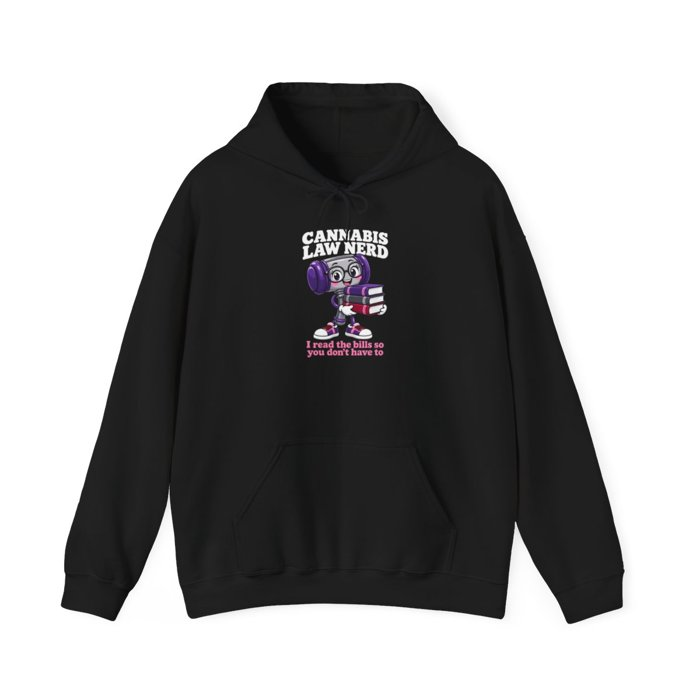
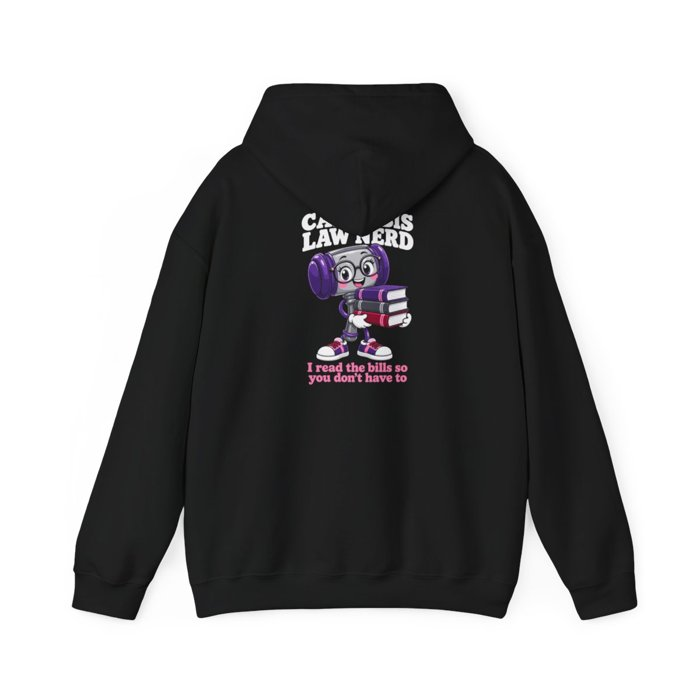
Merch: Veterans Dog Tags line + hoodies show back print
Adds the Veterans Dog Tags tee, black mug, 20oz tumbler and hoodie.
All 11 hoodies now have a big back print and a small J&H chest logo,
so their photos show the back view; hoodie price is now $47.99.

diff --git a/merch-preview-jh7q.html b/merch-preview-jh7q.html
@@ -40,6 +40,10 @@
   <div class="notice">🔒 <strong>Private preview for James &amp; Hope.</strong> This page isn't linked anywhere. Checkout stays off until the store is verified.</div>
   <h1>J&amp;H Merch (preview)</h1>
   <div class="merch-grid">
+    <div class="item"><img src="merch/veterans-dog-tags-tee.jpg" alt="Veterans Dog Tags Tee" loading="lazy"><div class="info"><h3>Veterans Dog Tags Tee</h3><span class="price">$25.99</span><br><a class="btn" href="https://jh-cannabis-news.printify.me/product/33491616">View in store</a></div></div>
+    <div class="item"><img src="merch/veterans-dog-tags-hoodie.jpg" alt="Veterans Dog Tags Hoodie" loading="lazy"><div class="info"><h3>Veterans Dog Tags Hoodie</h3><span class="price">$47.99</span><br><a class="btn" href="https://jh-cannabis-news.printify.me/product/33491781">View in store</a></div></div>
+    <div class="item"><img src="merch/veterans-dog-tags-black-mug.jpg" alt="Veterans Dog Tags Black Mug" loading="lazy"><div class="info"><h3>Veterans Dog Tags Black Mug</h3><span class="price">$16.99</span><br><a class="btn" href="https://jh-cannabis-news.printify.me/product/33491648">View in store</a></div></div>
+    <div class="item"><img src="merch/veterans-dog-tags-20oz-tumbler.jpg" alt="Veterans Dog Tags 20oz Tumbler" loading="lazy"><div class="info"><h3>Veterans Dog Tags 20oz Tumbler</h3><span class="price">$29.99</span><br><a class="btn" href="https://jh-cannabis-news.printify.me/product/33491685">View in store</a></div></div>
     <div class="item"><img src="merch/flower-power-peace-sign-tee.jpg" alt="Flower Power Peace Sign Tee" loading="lazy"><div class="info"><h3>Flower Power Peace Sign Tee</h3><span class="price">$25.99</span><br><a class="btn" href="https://jh-cannabis-news.printify.me/product/33456195">View in store</a></div></div>
     <div class="item"><img src="merch/texas-grown-texas-regulated-butterfly-tee.jpg" alt="Texas Grown Texas Regulated Butterfly Tee" loading="lazy"><div class="info"><h3>Texas Grown Texas Regulated Butterfly Tee</h3><span class="price">$25.99</span><br><a class="btn" href="https://jh-cannabis-news.printify.me/product/33456350">View in store</a></div></div>
     <div class="item"><img src="merch/good-vibes-clear-laws-moon-tee.jpg" alt="Good Vibes Clear Laws Moon Tee" loading="lazy"><div class="info"><h3>Good Vibes Clear Laws Moon Tee</h3><span class="price">$25.99</span><br><a class="btn" href="https://jh-cannabis-news.printify.me/product/33456454">View in store</a></div></div>
@@ -60,10 +64,10 @@
     <div class="item"><img src="merch/we-the-people-tee.jpg" alt="We the People Tee" loading="lazy"><div class="info"><h3>We the People Tee</h3><span class="price">$25.99</span><br><a class="btn" href="https://jh-cannabis-news.printify.me/product/33440403">View in store</a></div></div>
     <div class="item"><img src="merch/ask-me-about-the-farm-bill-tee.jpg" alt="Ask Me About the Farm Bill Tee" loading="lazy"><div class="info"><h3>Ask Me About the Farm Bill Tee</h3><span class="price">$25.99</span><br><a class="btn" href="https://jh-cannabis-news.printify.me/product/33440452">View in store</a></div></div>
     <div class="item"><img src="merch/gone-fishin-for-better-laws-tee.jpg" alt="Gone Fishin for Better Laws Tee" loading="lazy"><div class="info"><h3>Gone Fishin for Better Laws Tee</h3><span class="price">$25.99</span><br><a class="btn" href="https://jh-cannabis-news.printify.me/product/33440521">View in store</a></div></div>
-    <div class="item"><img src="merch/hemp-for-victory-hoodie.jpg" alt="Hemp for Victory Hoodie" loading="lazy"><div class="info"><h3>Hemp for Victory Hoodie</h3><span class="price">$44.99</span><br><a class="btn" href="https://jh-cannabis-news.printify.me/product/33440585">View in store</a></div></div>
-    <div class="item"><img src="merch/texas-hemp-pickup-hoodie.jpg" alt="Texas Hemp Pickup Hoodie" loading="lazy"><div class="info"><h3>Texas Hemp Pickup Hoodie</h3><span class="price">$44.99</span><br><a class="btn" href="https://jh-cannabis-news.printify.me/product/33440729">View in store</a></div></div>
-    <div class="item"><img src="merch/veterans-for-medical-cannabis-hoodie.jpg" alt="Veterans for Medical Cannabis Hoodie" loading="lazy"><div class="info"><h3>Veterans for Medical Cannabis Hoodie</h3><span class="price">$44.99</span><br><a class="btn" href="https://jh-cannabis-news.printify.me/product/33440802">View in store</a></div></div>
-    <div class="item"><img src="merch/texas-grown-texas-regulated-hoodie.jpg" alt="Texas Grown Texas Regulated Hoodie" loading="lazy"><div class="info"><h3>Texas Grown Texas Regulated Hoodie</h3><span class="price">$44.99</span><br><a class="btn" href="https://jh-cannabis-news.printify.me/product/33440895">View in store</a></div></div>
+    <div class="item"><img src="merch/hemp-for-victory-hoodie.jpg" alt="Hemp for Victory Hoodie" loading="lazy"><div class="info"><h3>Hemp for Victory Hoodie</h3><span class="price">$47.99</span><br><a class="btn" href="https://jh-cannabis-news.printify.me/product/33440585">View in store</a></div></div>
+    <div class="item"><img src="merch/texas-hemp-pickup-hoodie.jpg" alt="Texas Hemp Pickup Hoodie" loading="lazy"><div class="info"><h3>Texas Hemp Pickup Hoodie</h3><span class="price">$47.99</span><br><a class="btn" href="https://jh-cannabis-news.printify.me/product/33440729">View in store</a></div></div>
+    <div class="item"><img src="merch/veterans-for-medical-cannabis-hoodie.jpg" alt="Veterans for Medical Cannabis Hoodie" loading="lazy"><div class="info"><h3>Veterans for Medical Cannabis Hoodie</h3><span class="price">$47.99</span><br><a class="btn" href="https://jh-cannabis-news.printify.me/product/33440802">View in store</a></div></div>
+    <div class="item"><img src="merch/texas-grown-texas-regulated-hoodie.jpg" alt="Texas Grown Texas Regulated Hoodie" loading="lazy"><div class="info"><h3>Texas Grown Texas Regulated Hoodie</h3><span class="price">$47.99</span><br><a class="btn" href="https://jh-cannabis-news.printify.me/product/33440895">View in store</a></div></div>
     <div class="item"><img src="merch/texas-hemp-pickup-20oz-tumbler.jpg" alt="Texas Hemp Pickup 20oz Tumbler" loading="lazy"><div class="info"><h3>Texas Hemp Pickup 20oz Tumbler</h3><span class="price">$29.99</span><br><a class="btn" href="https://jh-cannabis-news.printify.me/product/33440959">View in store</a></div></div>
     <div class="item"><img src="merch/old-enough-to-remember-20oz-tumbler.jpg" alt="Old Enough to Remember 20oz Tumbler" loading="lazy"><div class="info"><h3>Old Enough to Remember 20oz Tumbler</h3><span class="price">$29.99</span><br><a class="btn" href="https://jh-cannabis-news.printify.me/product/33440998">View in store</a></div></div>
     <div class="item"><img src="merch/veterans-for-medical-cannabis-20oz-tumbler.jpg" alt="Veterans for Medical Cannabis 20oz Tumbler" loading="lazy"><div class="info"><h3>Veterans for Medical Cannabis 20oz Tumbler</h3><span class="price">$29.99</span><br><a class="btn" href="https://jh-cannabis-news.printify.me/product/33441067">View in store</a></div></div>
@@ -87,10 +91,10 @@
     <div class="item"><img src="merch/nerd-tee.jpg" alt="Cannabis Law Nerd Tee" loading="lazy"><div class="info"><h3>Cannabis Law Nerd Tee</h3><span class="price">$25.99</span><br><a class="btn" href="https://jh-cannabis-news.printify.me/product/33259072">View in store</a></div></div>
     <div class="item"><img src="merch/txfight-tee.jpg" alt="Texas Hemp Fight Tee" loading="lazy"><div class="info"><h3>Texas Hemp Fight Tee</h3><span class="price">$25.99</span><br><a class="btn" href="https://jh-cannabis-news.printify.me/product/33259113">View in store</a></div></div>
     <div class="item"><img src="merch/vote-tee.jpg" alt="Vote Like Cannabis Matters Tee" loading="lazy"><div class="info"><h3>Vote Like Cannabis Matters Tee</h3><span class="price">$25.99</span><br><a class="btn" href="https://jh-cannabis-news.printify.me/product/33259143">View in store</a></div></div>
-    <div class="item"><img src="merch/ftp-hoodie.jpg" alt="Free the Plant Hoodie" loading="lazy"><div class="info"><h3>Free the Plant Hoodie</h3><span class="price">$44.99</span><br><a class="btn" href="https://jh-cannabis-news.printify.me/product/33259222">View in store</a></div></div>
-    <div class="item"><img src="merch/savehemp-hoodie.jpg" alt="Save Hemp Retro Hoodie" loading="lazy"><div class="info"><h3>Save Hemp Retro Hoodie</h3><span class="price">$44.99</span><br><a class="btn" href="https://jh-cannabis-news.printify.me/product/33259262">View in store</a></div></div>
-    <div class="item"><img src="merch/nerd-hoodie.jpg" alt="Cannabis Law Nerd Hoodie" loading="lazy"><div class="info"><h3>Cannabis Law Nerd Hoodie</h3><span class="price">$44.99</span><br><a class="btn" href="https://jh-cannabis-news.printify.me/product/33259297">View in store</a></div></div>
-    <div class="item"><img src="merch/txfight-hoodie.jpg" alt="Texas Hemp Fight Hoodie" loading="lazy"><div class="info"><h3>Texas Hemp Fight Hoodie</h3><span class="price">$44.99</span><br><a class="btn" href="https://jh-cannabis-news.printify.me/product/33259347">View in store</a></div></div>
+    <div class="item"><img src="merch/ftp-hoodie.jpg" alt="Free the Plant Hoodie" loading="lazy"><div class="info"><h3>Free the Plant Hoodie</h3><span class="price">$47.99</span><br><a class="btn" href="https://jh-cannabis-news.printify.me/product/33259222">View in store</a></div></div>
+    <div class="item"><img src="merch/savehemp-hoodie.jpg" alt="Save Hemp Retro Hoodie" loading="lazy"><div class="info"><h3>Save Hemp Retro Hoodie</h3><span class="price">$47.99</span><br><a class="btn" href="https://jh-cannabis-news.printify.me/product/33259262">View in store</a></div></div>
+    <div class="item"><img src="merch/nerd-hoodie.jpg" alt="Cannabis Law Nerd Hoodie" loading="lazy"><div class="info"><h3>Cannabis Law Nerd Hoodie</h3><span class="price">$47.99</span><br><a class="btn" href="https://jh-cannabis-news.printify.me/product/33259297">View in store</a></div></div>
+    <div class="item"><img src="merch/txfight-hoodie.jpg" alt="Texas Hemp Fight Hoodie" loading="lazy"><div class="info"><h3>Texas Hemp Fight Hoodie</h3><span class="price">$47.99</span><br><a class="btn" href="https://jh-cannabis-news.printify.me/product/33259347">View in store</a></div></div>
     <div class="item"><img src="merch/ftp-tumbler.jpg" alt="Free the Plant 20oz Tumbler" loading="lazy"><div class="info"><h3>Free the Plant 20oz Tumbler</h3><span class="price">$29.99</span><br><a class="btn" href="https://jh-cannabis-news.printify.me/product/33259456">View in store</a></div></div>
     <div class="item"><img src="merch/savehemp-tumbler.jpg" alt="Save Hemp Retro 20oz Tumbler" loading="lazy"><div class="info"><h3>Save Hemp Retro 20oz Tumbler</h3><span class="price">$29.99</span><br><a class="btn" href="https://jh-cannabis-news.printify.me/product/33259502">View in store</a></div></div>
     <div class="item"><img src="merch/21plus-tumbler.jpg" alt="21+ and Regulated 20oz Tumbler" loading="lazy"><div class="info"><h3>21+ and Regulated 20oz Tumbler</h3><span class="price">$29.99</span><br><a class="btn" href="https://jh-cannabis-news.printify.me/product/33259518">View in store</a></div></div>
@@ -99,8 +103,8 @@
     <div class="item"><img src="merch/dec11-tee.jpg" alt="Dec 11 Hemp Fight Tee" loading="lazy"><div class="info"><h3>Dec 11 Hemp Fight Tee</h3><span class="price">$25.99</span><br><a class="btn" href="https://jh-cannabis-news.printify.me/product/33235129">View in store</a></div></div>
     <div class="item"><img src="merch/texas-tee.jpg" alt="Texas Cannabis News Tee" loading="lazy"><div class="info"><h3>Texas Cannabis News Tee</h3><span class="price">$25.99</span><br><a class="btn" href="https://jh-cannabis-news.printify.me/product/33235127">View in store</a></div></div>
     <div class="item"><img src="merch/classic-tee.jpg" alt="Classic Logo Tee" loading="lazy"><div class="info"><h3>Classic Logo Tee</h3><span class="price">$25.99</span><br><a class="btn" href="https://jh-cannabis-news.printify.me/product/33235120">View in store</a></div></div>
-    <div class="item"><img src="merch/neon-hoodie.jpg" alt="Neon Logo Hoodie" loading="lazy"><div class="info"><h3>Neon Logo Hoodie</h3><span class="price">$44.99</span><br><a class="btn" href="https://jh-cannabis-news.printify.me/product/33235119">View in store</a></div></div>
-    <div class="item"><img src="merch/classic-hoodie.jpg" alt="Classic Logo Hoodie" loading="lazy"><div class="info"><h3>Classic Logo Hoodie</h3><span class="price">$44.99</span><br><a class="btn" href="https://jh-cannabis-news.printify.me/product/33235116">View in store</a></div></div>
+    <div class="item"><img src="merch/neon-hoodie.jpg" alt="Neon Logo Hoodie" loading="lazy"><div class="info"><h3>Neon Logo Hoodie</h3><span class="price">$47.99</span><br><a class="btn" href="https://jh-cannabis-news.printify.me/product/33235119">View in store</a></div></div>
+    <div class="item"><img src="merch/classic-hoodie.jpg" alt="Classic Logo Hoodie" loading="lazy"><div class="info"><h3>Classic Logo Hoodie</h3><span class="price">$47.99</span><br><a class="btn" href="https://jh-cannabis-news.printify.me/product/33235116">View in store</a></div></div>
     <div class="item"><img src="merch/hat.jpg" alt="Classic Logo Hat" loading="lazy"><div class="info"><h3>Classic Logo Hat</h3><span class="price">$27.99</span><br><a class="btn" href="https://jh-cannabis-news.printify.me/product/33235117">View in store</a></div></div>
     <div class="item"><img src="merch/beanie.jpg" alt="Embroidered Logo Beanie" loading="lazy"><div class="info"><h3>Embroidered Logo Beanie</h3><span class="price">$27.99</span><br><a class="btn" href="https://jh-cannabis-news.printify.me/product/33236558">View in store</a></div></div>
     <div class="item"><img src="merch/neon-tumbler.jpg" alt="Neon Logo 20oz Tumbler" loading="lazy"><div class="info"><h3>Neon Logo 20oz Tumbler</h3><span class="price">$29.99</span><br><a class="btn" href="https://jh-cannabis-news.printify.me/product/33235122">View in store</a></div></div>

diff --git a/merch.html b/merch.html
@@ -44,6 +44,10 @@
   <a class="btn" href="https://www.youtube.com/@jhcannabisnews?sub_confirmation=1">▶ Subscribe</a>
   <a class="btn ghost" href="https://discord.gg/EXqpgyQyBq">💬 Join our Discord</a>
   <div class="merch-grid">
+    <div class="item"><img src="merch/veterans-dog-tags-tee.jpg" alt="Veterans Dog Tags Tee" loading="lazy"><div class="info"><h3>Veterans Dog Tags Tee</h3><span class="soon">Coming soon</span></div></div>
+    <div class="item"><img src="merch/veterans-dog-tags-hoodie.jpg" alt="Veterans Dog Tags Hoodie" loading="lazy"><div class="info"><h3>Veterans Dog Tags Hoodie</h3><span class="soon">Coming soon</span></div></div>
+    <div class="item"><img src="merch/veterans-dog-tags-black-mug.jpg" alt="Veterans Dog Tags Black Mug" loading="lazy"><div class="info"><h3>Veterans Dog Tags Black Mug</h3><span class="soon">Coming soon</span></div></div>
+    <div class="item"><img src="merch/veterans-dog-tags-20oz-tumbler.jpg" alt="Veterans Dog Tags 20oz Tumbler" loading="lazy"><div class="info"><h3>Veterans Dog Tags 20oz Tumbler</h3><span class="soon">Coming soon</span></div></div>
     <div class="item"><img src="merch/flower-power-peace-sign-tee.jpg" alt="Flower Power Peace Sign Tee" loading="lazy"><div class="info"><h3>Flower Power Peace Sign Tee</h3><span class="soon">Coming soon</span></div></div>
     <div class="item"><img src="merch/texas-grown-texas-regulated-butterfly-tee.jpg" alt="Texas Grown Texas Regulated Butterfly Tee" loading="lazy"><div class="info"><h3>Texas Grown Texas Regulated Butterfly Tee</h3><span class="soon">Coming soon</span></div></div>
     <div class="item"><img src="merch/good-vibes-clear-laws-moon-tee.jpg" alt="Good Vibes Clear Laws Moon Tee" loading="lazy"><div class="info"><h3>Good Vibes Clear Laws Moon Tee</h3><span class="soon">Coming soon</span></div></div>

diff --git a/tools/build_merch.py b/tools/build_merch.py
@@ -10,6 +10,11 @@ SITE = os.path.dirname(os.path.dirname(os.path.abspath(__file__)))
 STORE = "https://jh-cannabis-news.printify.me"
 MOCK = "https://images-api.printify.com/mockup/"
 P = [  # (slug, name, price, store product id, mockup path)
+    # Veterans Dog Tags (10-24): tee, black mug, 20oz tumbler, hoodie (big back print + J&H chest logo)
+    ("veterans-dog-tags-tee", "Veterans Dog Tags Tee", "$25.99", "33491616", "6adcdb7b0842128e3b04764a/18102/102044/veterans-dog-tags-tee.jpg?camera_label=front-2"),
+    ("veterans-dog-tags-hoodie", "Veterans Dog Tags Hoodie", "$47.99", "33491781", "6adcdb956e278da11903e470/32920/98425/veterans-dog-tags-hoodie.jpg?camera_label=back"),
+    ("veterans-dog-tags-black-mug", "Veterans Dog Tags Black Mug", "$16.99", "33491648", "6adcdbac5bb45b7c640f424e/65217/6405/veterans-dog-tags-black-mug.jpg?camera_label=front"),
+    ("veterans-dog-tags-20oz-tumbler", "Veterans Dog Tags 20oz Tumbler", "$29.99", "33491685", "6adcdb8d022966bc72071e9f/108286/104182/veterans-dog-tags-20oz-tumbler.jpg?camera_label=front"),
     # women's line (10-23): 3 bright pink/purple designs across tees, tumblers, cases, stickers
     ("flower-power-peace-sign-tee", "Flower Power Peace Sign Tee", "$25.99", "33456195", "6adb75eb04ff64518d0e294e/18102/102044/flower-power-peace-sign-tee.jpg?camera_label=front-2"),
     ("texas-grown-texas-regulated-butterfly-tee", "Texas Grown Texas Regulated Butterfly Tee", "$25.99", "33456350", "6adb75f4abc2ab63bd0aac56/18102/102044/texas-grown-texas-regulated-butterfly-tee.jpg?camera_label=front-2"),
@@ -32,10 +37,10 @@ P = [  # (slug, name, price, store product id, mockup path)
     ("we-the-people-tee", "We the People Tee", "$25.99", "33440403", "6adabbc594b6dff42c0711cb/18102/102044/we-the-people-tee.jpg?camera_label=front-2"),
     ("ask-me-about-the-farm-bill-tee", "Ask Me About the Farm Bill Tee", "$25.99", "33440452", "6adabc24fffc9a39740d28e6/18102/102044/ask-me-about-the-farm-bill-tee.jpg?camera_label=front-2"),
     ("gone-fishin-for-better-laws-tee", "Gone Fishin for Better Laws Tee", "$25.99", "33440521", "6adabcaa9f9e2d088d0c3bfb/18102/102044/gone-fishin-for-better-laws-tee.jpg?camera_label=front-2"),
-    ("hemp-for-victory-hoodie", "Hemp for Victory Hoodie", "$44.99", "33440585", "6adabd142e39dc5ae40a3af6/32920/98424/hemp-for-victory-hoodie.jpg?camera_label=front"),
-    ("texas-hemp-pickup-hoodie", "Texas Hemp Pickup Hoodie", "$44.99", "33440729", "6adabe242e39dc5ae40a3bea/32920/98424/texas-hemp-pickup-hoodie.jpg?camera_label=front"),
-    ("veterans-for-medical-cannabis-hoodie", "Veterans for Medical Cannabis Hoodie", "$44.99", "33440802", "6adabe8d3f8f83bb360e614e/32920/98424/veterans-for-medical-cannabis-hoodie.jpg?camera_label=front"),
-    ("texas-grown-texas-regulated-hoodie", "Texas Grown Texas Regulated Hoodie", "$44.99", "33440895", "6adabef92e39dc5ae40a3caa/32920/98424/texas-grown-texas-regulated-hoodie.jpg?camera_label=front"),
+    ("hemp-for-victory-hoodie", "Hemp for Victory Hoodie", "$47.99", "33440585", "6adabd142e39dc5ae40a3af6/32920/98425/hemp-for-victory-hoodie.jpg?camera_label=back"),
+    ("texas-hemp-pickup-hoodie", "Texas Hemp Pickup Hoodie", "$47.99", "33440729", "6adabe242e39dc5ae40a3bea/32920/98425/texas-hemp-pickup-hoodie.jpg?camera_label=back"),
+    ("veterans-for-medical-cannabis-hoodie", "Veterans for Medical Cannabis Hoodie", "$47.99", "33440802", "6adabe8d3f8f83bb360e614e/32920/98425/veterans-for-medical-cannabis-hoodie.jpg?camera_label=back"),
+    ("texas-grown-texas-regulated-hoodie", "Texas Grown Texas Regulated Hoodie", "$47.99", "33440895", "6adabef92e39dc5ae40a3caa/32920/98425/texas-grown-texas-regulated-hoodie.jpg?camera_label=back"),
     ("texas-hemp-pickup-20oz-tumbler", "Texas Hemp Pickup 20oz Tumbler", "$29.99", "33440959", "6adabf8f9645f8de5f03646b/108286/104182/texas-hemp-pickup-20oz-tumbler.jpg?camera_label=front"),
     ("old-enough-to-remember-20oz-tumbler", "Old Enough to Remember 20oz Tumbler", "$29.99", "33440998", "6adac042f538eea0950c6fc6/108286/104182/old-enough-to-remember-20oz-tumbler.jpg?camera_label=front"),
     ("veterans-for-medical-cannabis-20oz-tumbler", "Veterans for Medical Cannabis 20oz Tumbler", "$29.99", "33441067", "6adac0bd9645f8de5f03654a/108286/104182/veterans-for-medical-cannabis-20oz-tumbler.jpg?camera_label=front"),
@@ -59,10 +64,10 @@ P = [  # (slug, name, price, store product id, mockup path)
     ("nerd-tee", "Cannabis Law Nerd Tee", "$25.99", "33259072", "6ad4f1a7c5bf429b0a08272d/18102/102044/cannabis-law-nerd-tee.jpg?camera_label=front-2"),
     ("txfight-tee", "Texas Hemp Fight Tee", "$25.99", "33259113", "6ad4f1c0c5bf429b0a08275b/18102/102044/texas-hemp-fight-tee.jpg?camera_label=front-2"),
     ("vote-tee", "Vote Like Cannabis Matters Tee", "$25.99", "33259143", "6ad4f1dbe2ff8ddc0b0e5b76/18102/102044/vote-like-cannabis-matters-tee.jpg?camera_label=front-2"),
-    ("ftp-hoodie", "Free the Plant Hoodie", "$44.99", "33259222", "6ad4f3825691679ca00861ad/32920/98424/free-the-plant-hoodie.jpg?camera_label=front"),
-    ("savehemp-hoodie", "Save Hemp Retro Hoodie", "$44.99", "33259262", "6ad4f39b33bc1400d8086dd4/32920/98424/save-hemp-retro-hoodie.jpg?camera_label=front"),
-    ("nerd-hoodie", "Cannabis Law Nerd Hoodie", "$44.99", "33259297", "6ad4f3b47e86416ffc097345/32920/98424/cannabis-law-nerd-hoodie.jpg?camera_label=front"),
-    ("txfight-hoodie", "Texas Hemp Fight Hoodie", "$44.99", "33259347", "6ad4f3ce52e33f00a407cfc6/32920/98424/texas-hemp-fight-hoodie.jpg?camera_label=front"),
+    ("ftp-hoodie", "Free the Plant Hoodie", "$47.99", "33259222", "6ad4f3825691679ca00861ad/32920/98425/free-the-plant-hoodie.jpg?camera_label=back"),
+    ("savehemp-hoodie", "Save Hemp Retro Hoodie", "$47.99", "33259262", "6ad4f39b33bc1400d8086dd4/32920/98425/save-hemp-retro-hoodie.jpg?camera_label=back"),
+    ("nerd-hoodie", "Cannabis Law Nerd Hoodie", "$47.99", "33259297", "6ad4f3b47e86416ffc097345/32920/98425/cannabis-law-nerd-hoodie.jpg?camera_label=back"),
+    ("txfight-hoodie", "Texas Hemp Fight Hoodie", "$47.99", "33259347", "6ad4f3ce52e33f00a407cfc6/32920/98425/texas-hemp-fight-hoodie.jpg?camera_label=back"),
     ("ftp-tumbler", "Free the Plant 20oz Tumbler", "$29.99", "33259456", "6ad4f546e2ff8ddc0b0e5ea9/108286/104182/free-the-plant-20oz-tumbler.jpg?camera_label=front"),
     ("savehemp-tumbler", "Save Hemp Retro 20oz Tumbler", "$29.99", "33259502", "6ad4f55fc5bf429b0a082b07/108286/104182/save-hemp-retro-20oz-tumbler.jpg?camera_label=front"),
     ("21plus-tumbler", "21+ and Regulated 20oz Tumbler", "$29.99", "33259518", "6ad4f5775691679ca00863ec/108286/104182/21-and-regulated-20oz-tumbler.jpg?camera_label=front"),
@@ -71,8 +76,8 @@ P = [  # (slug, name, price, store product id, mockup path)
     ("dec11-tee", "Dec 11 Hemp Fight Tee", "$25.99", "33235129", "6ad3d86b19a9e3ef6c0947c8/18102/102044/dec-11-hemp-fight-tee.jpg?camera_label=front-2"),
     ("texas-tee", "Texas Cannabis News Tee", "$25.99", "33235127", "6ad3d87119a9e3ef6c0947cb/18102/102044/texas-cannabis-news-tee.jpg?camera_label=front-2"),
     ("classic-tee", "Classic Logo Tee", "$25.99", "33235120", "6ad0c64a59ac88d91604b02e/18102/102044/classic-logo-tee.jpg?camera_label=front-2"),
-    ("neon-hoodie", "Neon Logo Hoodie", "$44.99", "33235119", "6ad3e9e2dd9ae60ca105fac6/32920/98424/neon-logo-hoodie.jpg?camera_label=front"),
-    ("classic-hoodie", "Classic Logo Hoodie", "$44.99", "33235116", "6ad0ce6bf0531fc34e0f53e5/32920/98424/classic-logo-hoodie.jpg?camera_label=front"),
+    ("neon-hoodie", "Neon Logo Hoodie", "$47.99", "33235119", "6ad3e9e2dd9ae60ca105fac6/32920/98425/neon-logo-hoodie.jpg?camera_label=back"),
+    ("classic-hoodie", "Classic Logo Hoodie", "$47.99", "33235116", "6ad0ce6bf0531fc34e0f53e5/32920/98425/classic-logo-hoodie.jpg?camera_label=back"),
     ("hat", "Classic Logo Hat", "$27.99", "33235117", "6ad0c80c59ac88d91604b16b/125365/135054/classic-logo-hat.jpg?camera_label=front"),
     ("beanie", "Embroidered Logo Beanie", "$27.99", "33236558", "6ad40b96753e48c73f0b13b5/116417/109382/embroidered-logo-beanie.jpg?camera_label=front"),
     ("neon-tumbler", "Neon Logo 20oz Tumbler", "$29.99", "33235122", "6ad3d9c17388cdd94b0a08d3/108286/104182/neon-logo-20oz-tumbler.jpg?camera_label=front&revision=1792690472000"),
